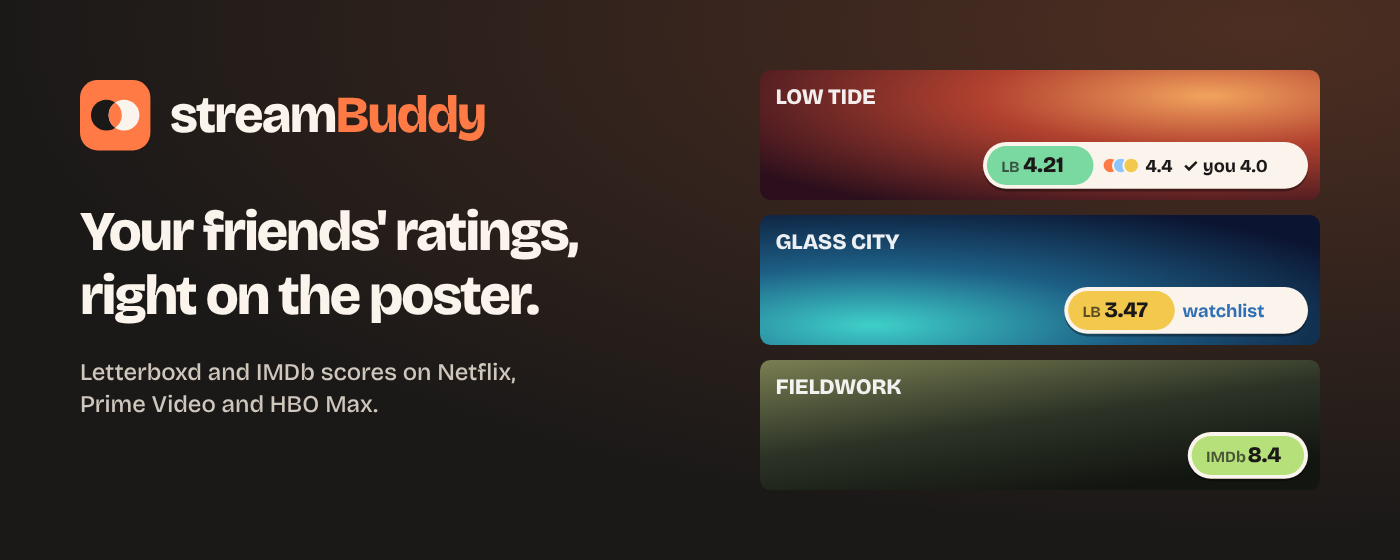
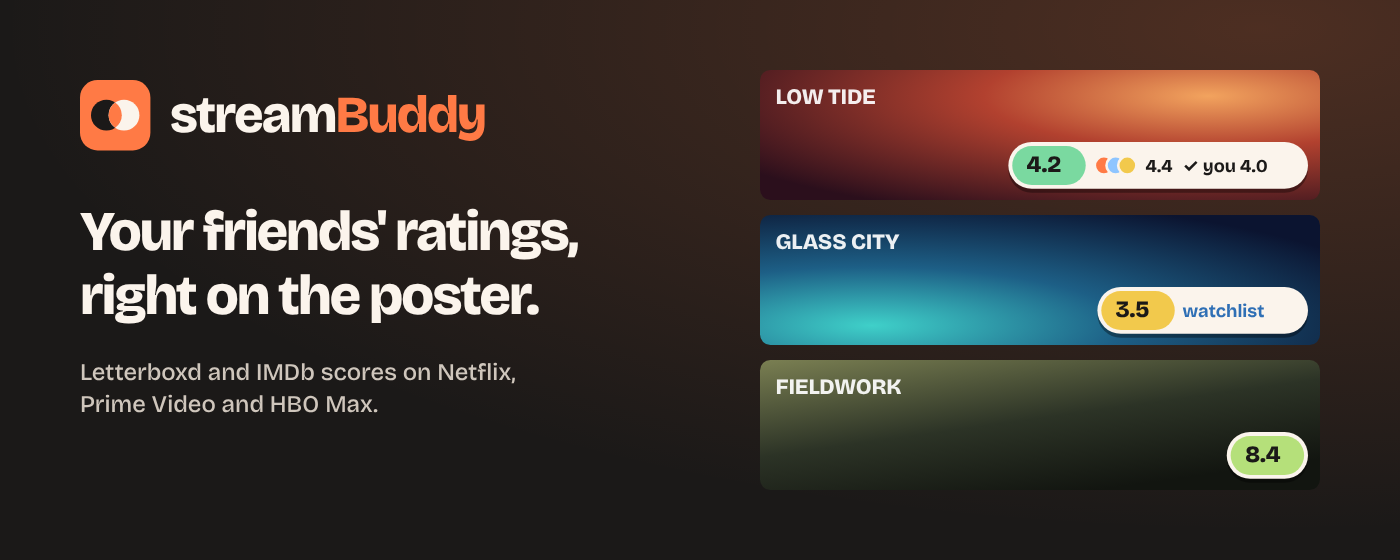
Bring the rating badge back in line with the Buddy design
The shipped chip had drifted from the mockup Josh picked: system font, an
"LB 3.72" label with two decimals, a flatter and smaller chip, and tiny friend
dots. It now uses Bricolage Grotesque (bundled, served from the extension), a
bold one-decimal score with the source and exact value in the tooltip, a hard
sticker shadow, and larger friend faces. Promo tiles redrawn to match.

Claude-Session: https://claude.ai/code/session_01FeK25aTVYGXvLZdeNPxoeu

Changed region(s): [[0.6757, 0.2429, 0.8293, 0.3643], [0.8293, 0.7589, 0.9214, 0.8804], [0.7371, 0.5161, 0.8293, 0.6071]]

diff --git a/src/content-script/shared-functions.ts b/src/content-script/shared-functions.ts
@@ -1,4 +1,4 @@
-import { installPageFeatureStyle } from "@/utils/page-feature-styles"
+import { BADGE_FONT, installPageFeatureStyle } from "@/utils/page-feature-styles"
 import { sendMessage } from "webext-bridge/content-script"
 import {
 	getLetterboxdSlug,
@@ -855,7 +855,7 @@ function getRatingVoteCount(data: MovieInfo) {
 }
 // A popcorn chip: the score in a pill coloured by how it ranks among what's streaming, then, smaller, friends'
 // Letterboxd average (one dot per friend) and your own status (seen it and what you gave it, or on your watchlist).
-// Keep the source visible; colour adds context rather than carrying the meaning.
+// The source and scale are in the tooltip; colour adds context rather than carrying the meaning.
 const BADGE_INK = "#1b1918"
 const FRIEND_DOT_COLORS = ["#ff7a45", "#8ec5ff", "#f2c94c", "#7ad9a0", "#c9a7ff"]
 function addBadgeSegment(div: HTMLElement, text: string, color = BADGE_INK) {
@@ -864,8 +864,8 @@ function addBadgeSegment(div: HTMLElement, text: string, color = BADGE_INK) {
 		display: "inline-flex",
 		alignItems: "center",
 		gap: "0.3em",
-		padding: "0 0.45em 0 0.15em",
-		fontSize: "max(11px, 0.85em)",
+		padding: "0 0.5em 0 0.2em",
+		fontSize: "max(11px, 0.8em)",
 		fontWeight: "700",
 		color,
 		whiteSpace: "nowrap",
@@ -884,11 +884,12 @@ function friendDots(friends: { name: string }[], count: number) {
 		const hash = [...name].reduce((sum, char) => sum + char.charCodeAt(0), 0)
 		Object.assign(dot.style, {
 			display: "block",
-			width: "0.8em",
-			height: "0.8em",
-			marginLeft: i ? "-0.3em" : "0",
+			width: "1.05em",
+			height: "1.05em",
+			boxSizing: "border-box",
+			marginLeft: i ? "-0.35em" : "0",
 			borderRadius: "50%",
-			border: "0.12em solid #fbf4ec",
+			border: "0.15em solid #fbf4ec",
 			background: FRIEND_DOT_COLORS[hash % FRIEND_DOT_COLORS.length],
 		})
 		dots.appendChild(dot)
@@ -899,34 +900,30 @@ const formatCount = (count = 0) =>
 	count >= 1e6 ? `${(count / 1e6).toFixed(1)}M` : count >= 1e3 ? `${Math.round(count / 1e3)}K` : String(count)
 function fillBadge(div: HTMLElement, data: MovieInfo, prefix: string, tmdbColor: string | undefined) {
 	const main = document.createElement("span")
-	const label = document.createElement("small")
-	Object.assign(label.style, { fontSize: "0.72em", fontWeight: "700", opacity: "0.7", marginRight: "0.3em" })
 	Object.assign(main.style, {
-		padding: "0.3em 0.55em",
+		padding: "0.28em 0.6em",
 		borderRadius: "999px",
-		fontSize: "1.05em",
+		fontSize: "1.15em",
 		fontWeight: "800",
+		letterSpacing: "-0.02em",
 		whiteSpace: "nowrap",
 	})
 	const tooltip: string[] = []
 	let value: string
 	if (data.source === "letterboxd") {
-		label.textContent = prefix + "LB"
-		value = data.rating?.toFixed(2) ?? ""
+		value = data.rating?.toFixed(1) ?? ""
 		main.style.background = getScoreColor("letterboxd", data.rating ?? 0)
 		tooltip.push(`Letterboxd ${data.rating?.toFixed(2)}/5 · ${formatCount(data.rating_count)} ratings`)
 	} else if (data.source === "imdb") {
-		label.textContent = prefix + "IMDb"
 		value = data.rating?.toFixed(1) ?? ""
 		main.style.background = getScoreColor("imdb", data.rating ?? 0)
 		tooltip.push(`IMDb ${data.rating?.toFixed(1)}/10 · ${formatCount(data.rating_count)} ratings`)
 	} else {
-		label.textContent = prefix + "TMDb"
 		value = data.score?.toFixed(1) ?? ""
 		main.style.background = tmdbColor ?? "#b3aaa1"
 		tooltip.push(`TMDb ${data.score?.toFixed(1)}/10 (no Letterboxd or IMDb rating)`)
 	}
-	main.append(label, value)
+	main.append(prefix + value)
 	div.appendChild(main)
 	if (data.source === "letterboxd" && data.friends_rating && settings.value.General.friendsRatings) {
 		const segment = addBadgeSegment(div, data.friends_rating.toFixed(1))
@@ -1009,20 +1006,19 @@ async function setRatingOnCard(card: HTMLElement, data: MovieInfo, title: string
 		color: BADGE_INK,
 		textDecoration: "none",
 		background: "#fbf4ec",
-		boxShadow: "0 2px 0 rgba(0, 0, 0, 0.35), 0 4px 14px rgba(0, 0, 0, 0.3)",
+		// a sticker, not glass: a hard drop shadow lifts it off any artwork
+		boxShadow: "0 3px 0 rgba(0, 0, 0, 0.35)",
 		borderRadius: "1.1em",
 		opacity: "0",
 		transform: "translateY(2px)",
 		transition: "opacity 160ms ease-out, transform 220ms cubic-bezier(0.3, 0.7, 0.2, 1)",
-		padding: "0.18em",
-		fontFamily:
-			'"Bricolage Grotesque Variable", "Bricolage Grotesque", -apple-system, BlinkMacSystemFont, "Segoe UI", Helvetica, sans-serif',
+		padding: "0.2em",
+		fontFamily: `${BADGE_FONT}, -apple-system, BlinkMacSystemFont, "Segoe UI", Helvetica, sans-serif`,
 		fontWeight: "700",
-		letterSpacing: "-0.01em",
 		fontVariantNumeric: "tabular-nums",
 		lineHeight: "1",
 		zIndex: zIndexValue,
-		fontSize: isMobile ? "clamp(12px, 4vw, 18px)" : "clamp(12px, 0.85vw, 15px)",
+		fontSize: isMobile ? "clamp(13px, 4vw, 19px)" : "clamp(13px, 0.95vw, 17px)",
 	})
 
 	requestAnimationFrame(() => Object.assign(div.style, { opacity: "1", transform: "none" }))

diff --git a/src/utils/page-feature-styles.ts b/src/utils/page-feature-styles.ts
@@ -1,9 +1,16 @@
+import bricolageLatin from "@fontsource-variable/bricolage-grotesque/files/bricolage-grotesque-latin-opsz-normal.woff2?url"
+
+// The badge's typeface, served from the extension itself (no request leaves the browser). The family name is
+// streamBuddy's own so it can't clash with a font the site loads.
+export const BADGE_FONT = '"streamBuddy Bricolage"'
+
 // Scoped to streamBuddy's injected controls; avoid styling the host site's UI.
 export function installPageFeatureStyle() {
 	if (document.getElementById("sb-page-features-style")) return
 	const style = document.createElement("style")
 	style.id = "sb-page-features-style"
 	style.textContent = `
+ @font-face { font-family:${BADGE_FONT}; src:url("${browser.runtime.getURL(bricolageLatin)}") format("woff2"); font-weight:200 800; font-display:swap; }
  .sb-detail-panel,.sb-rate-prompt { --sb-feature-bg:#1b1918f2; --sb-feature-text:#fbf4ec; --sb-feature-muted:#cfc6bc; --sb-feature-line:#ffffff26; color:var(--sb-feature-text); font:14px/1.5 -apple-system,BlinkMacSystemFont,"Segoe UI",sans-serif; }
  .sb-detail-panel { display:flex; flex-wrap:wrap; align-items:center; gap:8px 14px; margin:16px 0; padding:12px 14px; border:1px solid var(--sb-feature-line); border-radius:10px; background:var(--sb-feature-bg); }
  .sb-detail-panel a { text-decoration:none; color:inherit; } .sb-detail-score { font-size:17px; font-weight:650; }

diff --git a/src/types/auto-imports.d.ts b/src/types/auto-imports.d.ts
@@ -8,6 +8,7 @@
 // biome-ignore lint: disable
 export {}
 declare global {
+  const BADGE_FONT: typeof import('../utils/page-feature-styles').BADGE_FONT
   const CreditsRatingPrompt: typeof import('../utils/letterboxd-actions').CreditsRatingPrompt
   const DetailRatings: typeof import('../utils/page-features').DetailRatings
   const EffectScope: typeof import('vue').EffectScope
@@ -428,6 +429,7 @@ import { UnwrapRef } from 'vue'
 declare module 'vue' {
   interface GlobalComponents {}
   interface ComponentCustomProperties {
+    readonly BADGE_FONT: UnwrapRef<typeof import('../utils/page-feature-styles')['BADGE_FONT']>
     readonly CreditsRatingPrompt: UnwrapRef<typeof import('../utils/letterboxd-actions')['CreditsRatingPrompt']>
     readonly DetailRatings: UnwrapRef<typeof import('../utils/page-features')['DetailRatings']>
     readonly EffectScope: UnwrapRef<typeof import('vue')['EffectScope']>

diff --git a/vitest.setup.ts b/vitest.setup.ts
@@ -15,6 +15,7 @@ vi.mock("webextension-polyfill", () => {
 	return {
 		runtime: {
 			sendMessage: vi.fn(),
+			getURL: vi.fn((path: string) => `moz-extension://mock/${path}`),
 		},
 		storage: {
 			local: {

diff --git a/CHANGELOG.md b/CHANGELOG.md
@@ -3,7 +3,7 @@
 # streamBuddy 1.0.1
 
 - A new look: a new logo (two friends on the couch), a warm dark palette with tangerine highlights and the Bricolage Grotesque typeface in the popup and settings.
-- Rating badges are now a single cream chip: the score in a pill coloured by how it ranks, with friends' ratings (one dot per friend) and your own status beside it.
+- Rating badges are now a single cream chip in the same typeface: a bold score in a pill coloured by how it ranks, with friends' ratings (one face per friend) and your own status beside it. The exact score and its source are in the tooltip.
 - Housekeeping: removed leftovers from Streaming enhanced, renamed the icon files and updated dependencies.
 
 # streamBuddy 1.0.0
